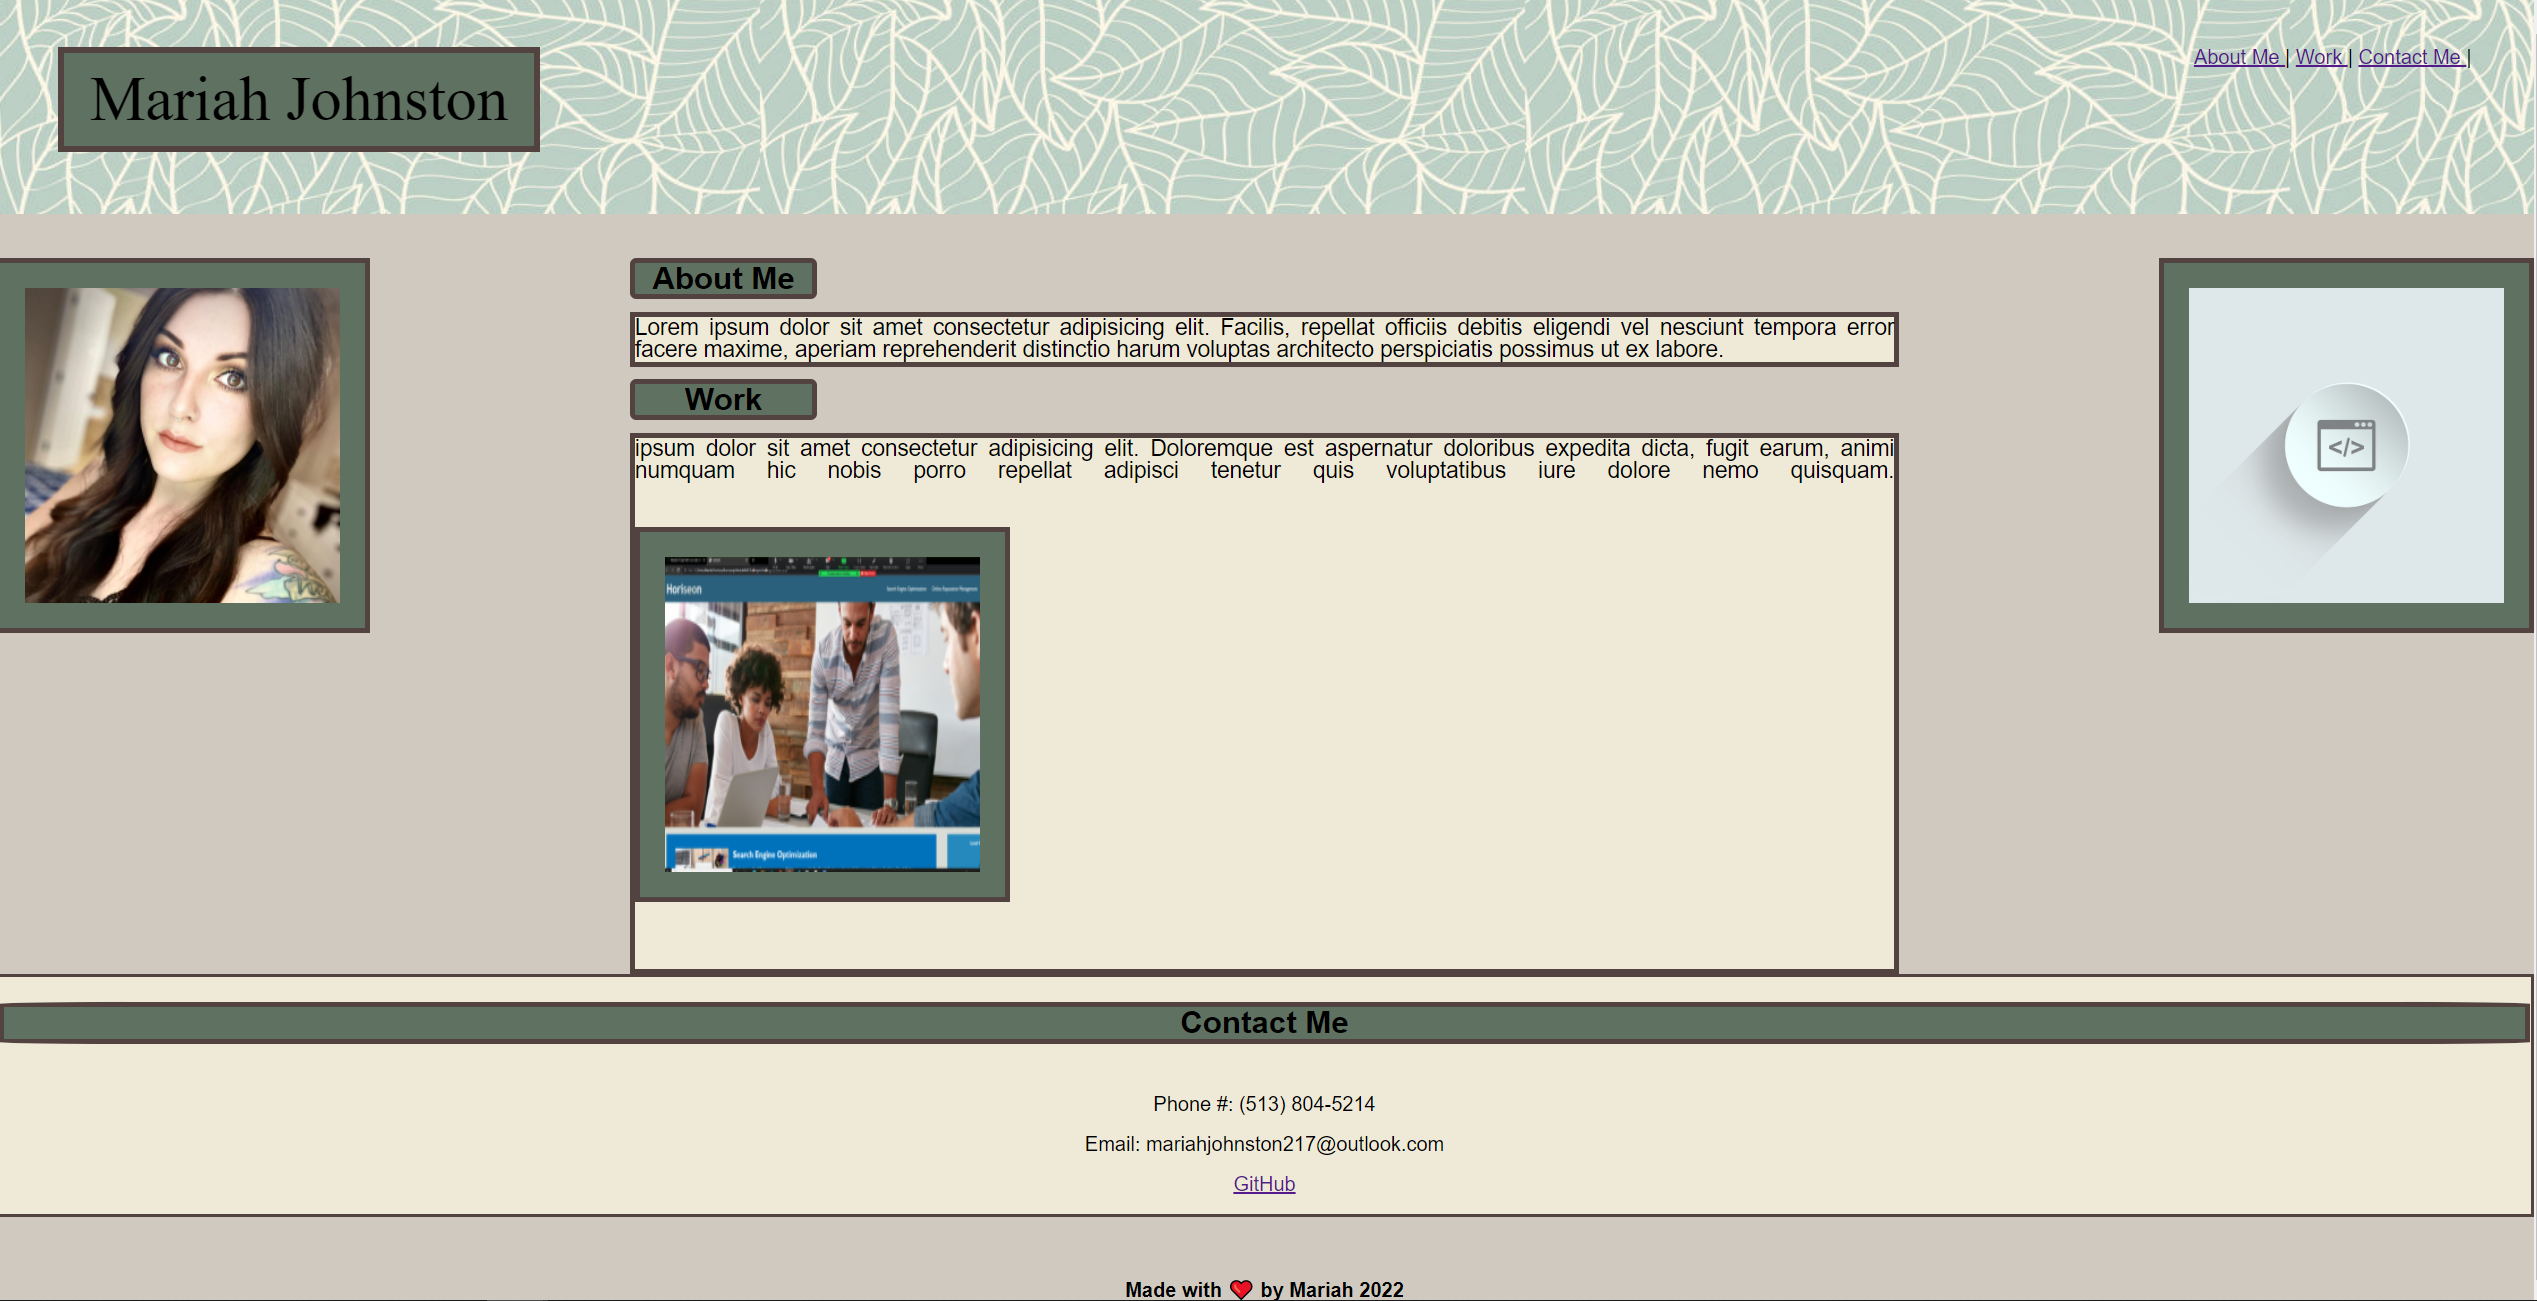
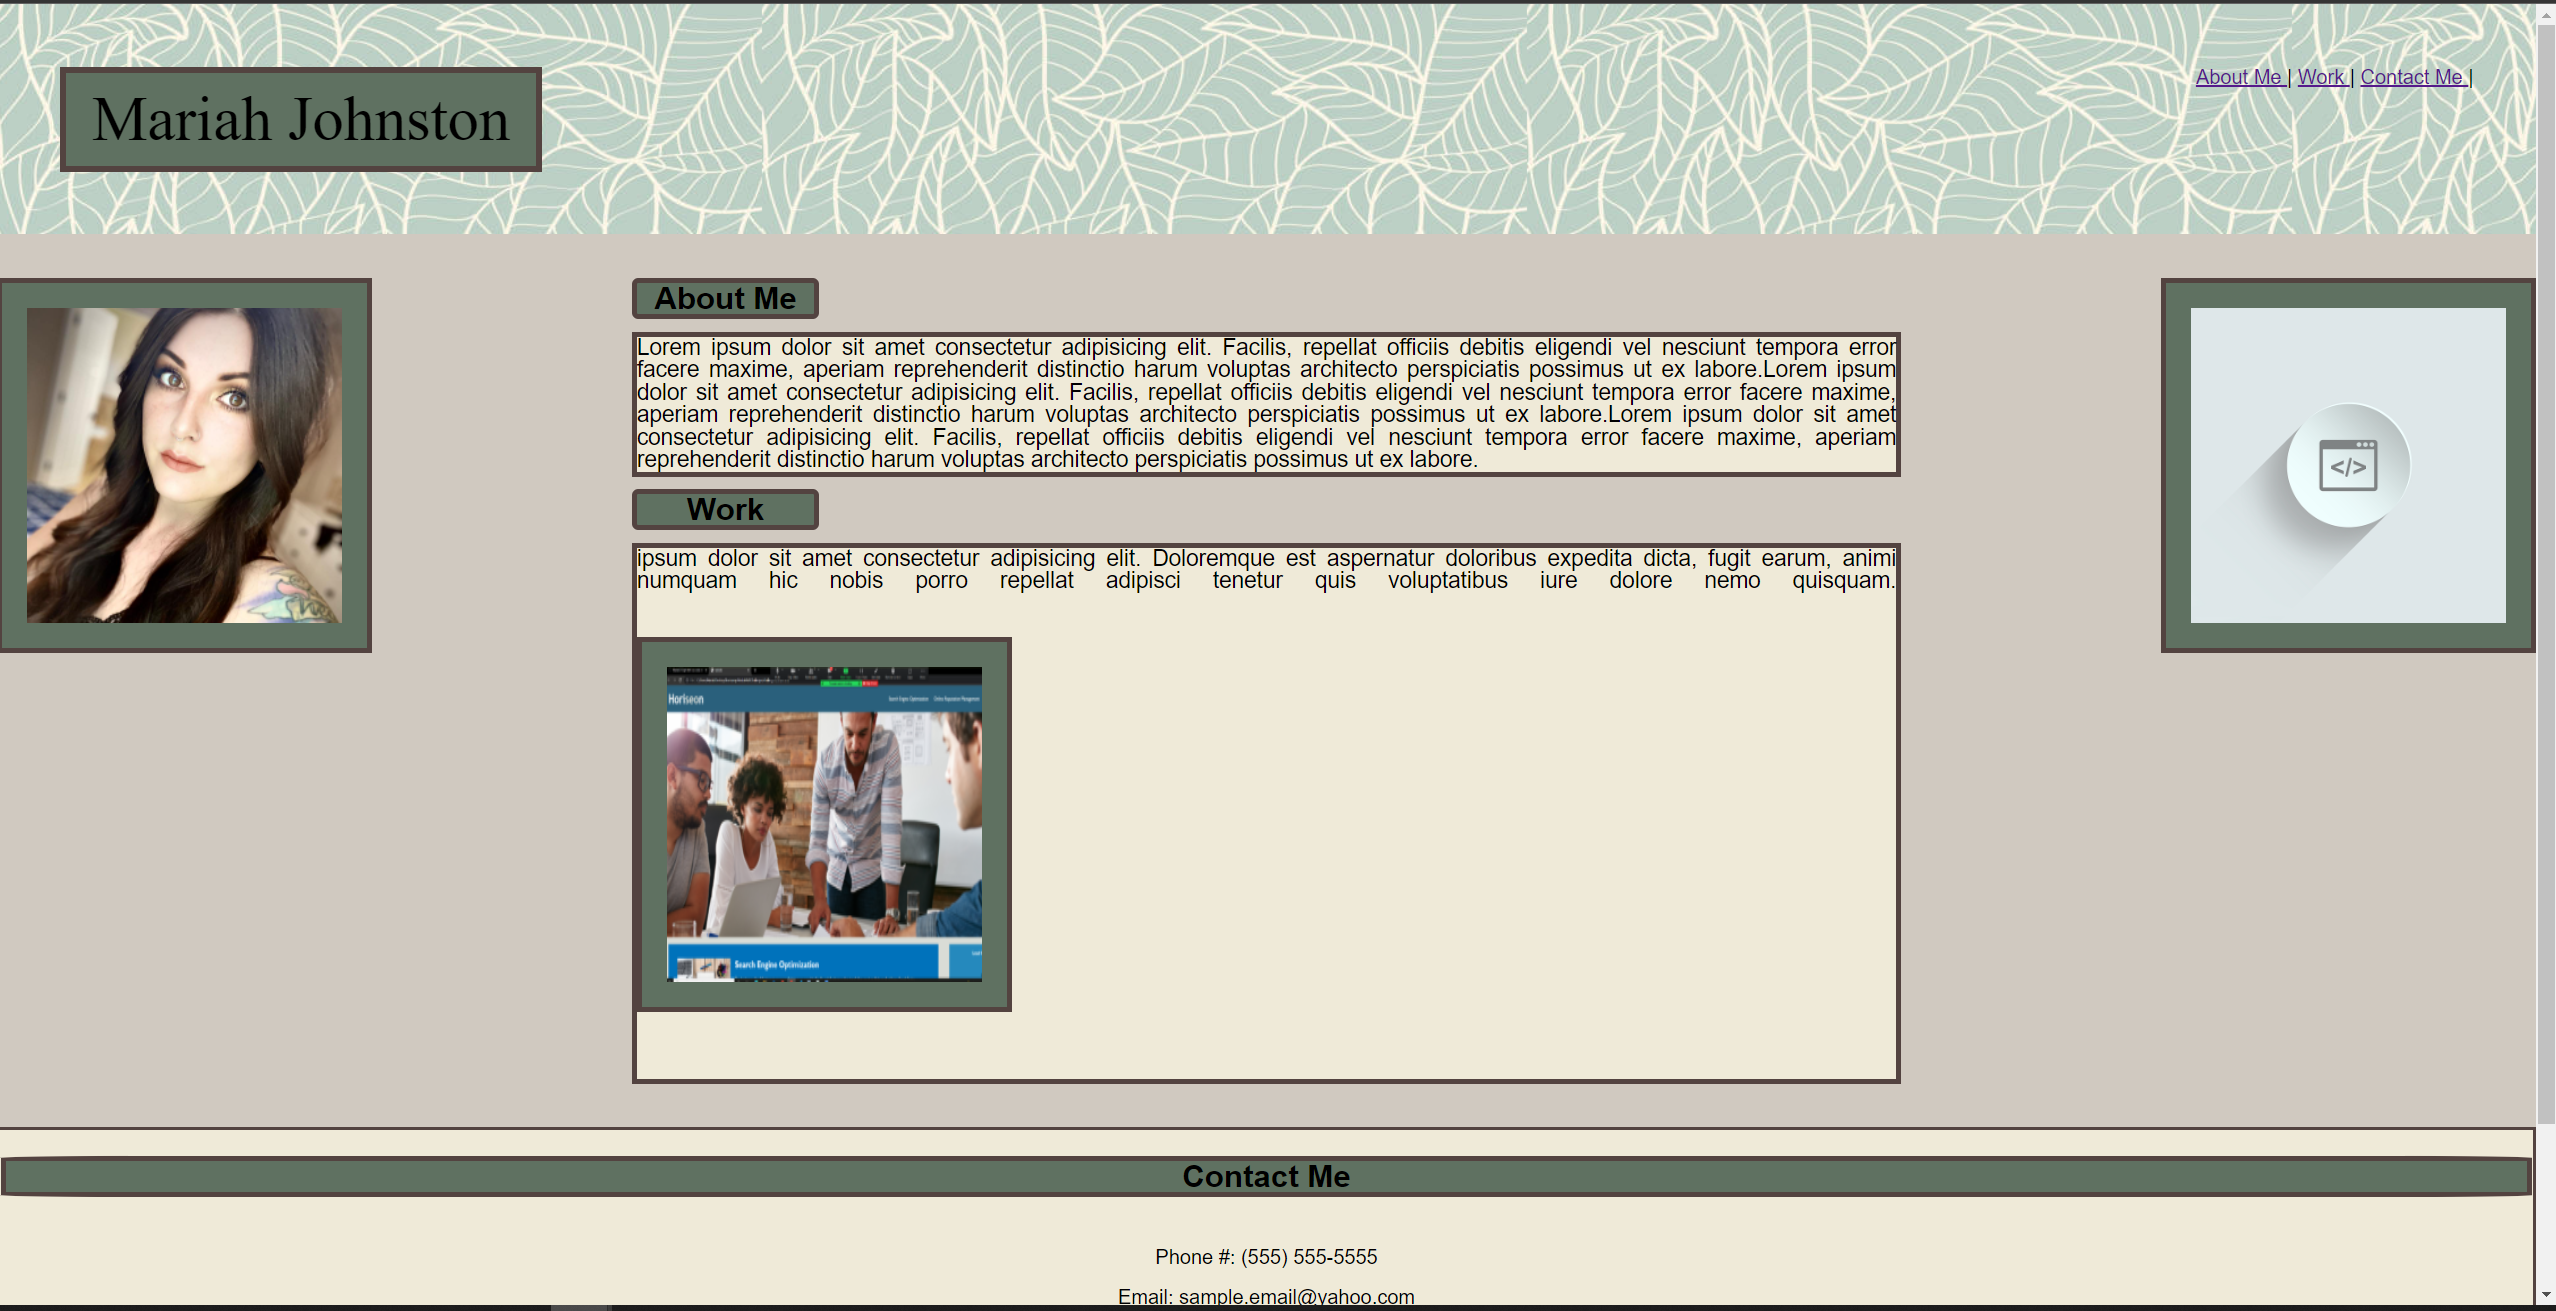
added comments to html

diff --git a/index.html b/index.html
@@ -6,11 +6,10 @@
     <meta http-equiv="X-UA-Compatible" content="IE=edge">
     <link rel="stylesheet" href="./Assets/css/reset.css">
     <link rel="stylesheet" href="./Assets/css/style.css">
-    <link rel="stylesheet" href="">
     <meta name="viewport" content="width=device-width, initial-scale=1.0">
     <title>Portfolio</title>
 </head>
-
+<!-- title and nav bar -->
 <body>
     <header>
         <h1> Mariah Johnston</h1>
@@ -24,7 +23,7 @@
 
         </nav>
     </header>
-
+<!-- image of me, about me and work section -->
     <main>
         <section class="container">
             <figure>
@@ -61,13 +60,13 @@
         </section>
 
     </main>
-
+<!-- contact me -->
     <section id="contact-me">
         <h2 class="contact-title">Contact Me</h2>
         <ul class="contact-info">
-            <li>Phone #: (513) 804-5214</li>
+            <li>Phone #: (555) 555-5555</li>
             <br>
-            <li>Email: mariahjohnston217@outlook.com</li>
+            <li>Email: sample.email@yahoo.com</li>
             <br>
             <li> <a href="https://github.com/Mariah217"><figure class="font-awesome">
                 <svg xmlns="http://www.w3.org/2000/svg" viewBox="0 0 496 512"><!--! Font Awesome Pro 6.1.1 by @fontawesome - https://fontawesome.com License - https://fontawesome.com/license (Commercial License) Copyright 2022 Fonticons, Inc. --><path d="M165.9 397.4c0 2-2.3 3.6-5.2 3.6-3.3.3-5.6-1.3-5.6-3.6 0-2 2.3-3.6 5.2-3.6 3-.3 5.6 1.3 5.6 3.6zm-31.1-4.5c-.7 2 1.3 4.3 4.3 4.9 2.6 1 5.6 0 6.2-2s-1.3-4.3-4.3-5.2c-2.6-.7-5.5.3-6.2 2.3zm44.2-1.7c-2.9.7-4.9 2.6-4.6 4.9.3 2 2.9 3.3 5.9 2.6 2.9-.7 4.9-2.6 4.6-4.6-.3-1.9-3-3.2-5.9-2.9zM244.8 8C106.1 8 0 113.3 0 252c0 110.9 69.8 205.8 169.5 239.2 12.8 2.3 17.3-5.6 17.3-12.1 0-6.2-.3-40.4-.3-61.4 0 0-70 15-84.7-29.8 0 0-11.4-29.1-27.8-36.6 0 0-22.9-15.7 1.6-15.4 0 0 24.9 2 38.6 25.8 21.9 38.6 58.6 27.5 72.9 20.9 2.3-16 8.8-27.1 16-33.7-55.9-6.2-112.3-14.3-112.3-110.5 0-27.5 7.6-41.3 23.6-58.9-2.6-6.5-11.1-33.3 2.6-67.9 20.9-6.5 69 27 69 27 20-5.6 41.5-8.5 62.8-8.5s42.8 2.9 62.8 8.5c0 0 48.1-33.6 69-27 13.7 34.7 5.2 61.4 2.6 67.9 16 17.7 25.8 31.5 25.8 58.9 0 96.5-58.9 104.2-114.8 110.5 9.2 7.9 17 22.9 17 46.4 0 33.7-.3 75.4-.3 83.6 0 6.5 4.6 14.4 17.3 12.1C428.2 457.8 496 362.9 496 252 496 113.3 383.5 8 244.8 8zM97.2 352.9c-1.3 1-1 3.3.7 5.2 1.6 1.6 3.9 2.3 5.2 1 1.3-1 1-3.3-.7-5.2-1.6-1.6-3.9-2.3-5.2-1zm-10.8-8.1c-.7 1.3.3 2.9 2.3 3.9 1.6 1 3.6.7 4.3-.7.7-1.3-.3-2.9-2.3-3.9-2-.6-3.6-.3-4.3.7zm32.4 35.6c-1.6 1.3-1 4.3 1.3 6.2 2.3 2.3 5.2 2.6 6.5 1 1.3-1.3.7-4.3-1.3-6.2-2.2-2.3-5.2-2.6-6.5-1zm-11.4-14.7c-1.6 1-1.6 3.6 0 5.9 1.6 2.3 4.3 3.3 5.6 2.3 1.6-1.3 1.6-3.9 0-6.2-1.4-2.3-4-3.3-5.6-2z"/></svg>
@@ -75,7 +74,7 @@
             <br>
         </ul>
     </section>
-
+<!-- footer -->
     <footer>
         Made with ❤ by Mariah 2022
  
